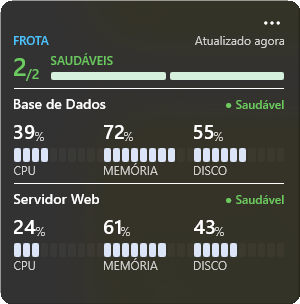
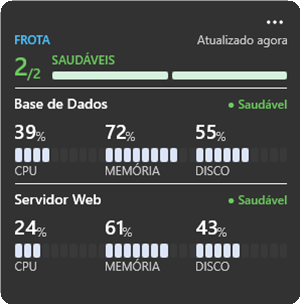
fix: address capacity-fix review findings
Reliability review caught that the shared invariant was circular: it
compared the rendered row count against the same MaxRowsFor the builder
uses to cap, so restoring Medium to three or Large to six would have
moved the expectation with the code and still passed. The measured
capacities are now literals in the test, and the production constant is
asserted to equal them, so changing a cap fails the suite until someone
re-measures on the board.

Visual review caught that the overflow line was rendered subtle. It is
the only thing telling the user that servers exist which the card is not
showing, so de-emphasising it worked against the honesty the cap fix was
meant to restore. It is now normal weight, and a test asserts it.

The overflow copy is now idiomatic per locale rather than one template
with a swapped word: "{0} more", "mais {0}", "{0} a mais". The previous
"+{0} mais" read as "mais N mais" in Portuguese.

Small no longer carries an overflow count and text that its composition
never draws; it renders no rows, so its overflow is zero and its honesty
comes from the hero stating the whole fleet. That is now its own test.

The widget picker screenshots are recaptured from the board against a
neutral solid background, with no pointer over the card, so the asset
shows the product rather than the author's desktop tint. Light and dark
variants are declared separately, because the picker follows the system
[…]

diff --git a/tests/ServerMonitor.WidgetProvider.Tests/Rendering/WidgetViewModelBuilderTests.cs b/tests/ServerMonitor.WidgetProvider.Tests/Rendering/WidgetViewModelBuilderTests.cs
@@ -135,8 +135,9 @@ public sealed class WidgetViewModelBuilderTests
         Assert.Equal(name, Assert.Single(vm.Rows).DisplayName);
     }
 
+    // Small is deliberately absent: it renders no rows and therefore carries no overflow at all - see
+    // Small_states_the_whole_fleet_and_carries_no_overflow for its own contract (Prism L3).
     [Theory]
-    [InlineData(WidgetSizeHint.Small, 0)]
     [InlineData(WidgetSizeHint.Medium, 2)]
     [InlineData(WidgetSizeHint.Large, 3)]
     public void Rows_are_capped_per_size_with_overflow(WidgetSizeHint size, int maxRows)
@@ -244,14 +245,30 @@ public sealed class WidgetViewModelBuilderTests
 
     // ---- The shared invariant. This is the guard that stops QA-4/QA-5 recurring per size. ----
     //
-    // For every size that renders server rows, a fleet larger than what is shown MUST be announced. The
-    // two shipped defects were independent instances of exactly this rule being broken, so it is asserted
-    // once, across every size and a wide range of fleet sizes, rather than per size.
-    [Theory]
-    [InlineData(WidgetSizeHint.Medium)]
-    [InlineData(WidgetSizeHint.Large)]
-    public void Sizes_that_render_rows_never_hide_a_server_silently(WidgetSizeHint size)
+    // MEASURED capacities, deliberately written out as literals rather than read from MaxRowsFor. Asserting
+    // against the production constant would be circular: raising Medium back to 3 or Large back to 6 would
+    // move the expectation with the code and the test would still pass, which is exactly how both defects
+    // shipped with a green suite in the first place (Atlas M1). These numbers came from the real Windows
+    // Widgets board and may only be changed by re-measuring there.
+    public const int MeasuredMediumCapacity = 2;
+    public const int MeasuredLargeCapacity = 3;
+
+    public static TheoryData<WidgetSizeHint, int> RowRenderingSizes() => new()
     {
+        { WidgetSizeHint.Medium, MeasuredMediumCapacity },
+        { WidgetSizeHint.Large, MeasuredLargeCapacity },
+    };
+
+    // For every size that renders server rows, a fleet larger than what is shown MUST be announced. The two
+    // shipped defects were independent instances of this one rule being broken, so it is asserted once,
+    // across both sizes and a wide range of fleet sizes, rather than per size.
+    [Theory]
+    [MemberData(nameof(RowRenderingSizes))]
+    public void Sizes_that_render_rows_never_hide_a_server_silently(WidgetSizeHint size, int measuredCapacity)
+    {
+        // The production constant must equal what was measured on the host - not the other way round.
+        Assert.Equal(measuredCapacity, WidgetViewModelBuilder.MaxRowsFor(size));
+
         foreach (var total in new[] { 0, 1, 2, 3, 4, 5, 6, 7, 12, 100 })
         {
             var servers = Enumerable.Range(0, total)
@@ -260,9 +277,10 @@ public sealed class WidgetViewModelBuilderTests
 
             // Nothing is ever unaccounted for.
             Assert.Equal(total, vm.Rows.Count + vm.OverflowCount);
-            // Never render more than the measured host capacity.
-            Assert.True(vm.Rows.Count <= WidgetViewModelBuilder.MaxRowsFor(size),
-                $"{size} rendered {vm.Rows.Count} rows, above its host capacity");
+            // Never render more than the capacity measured on the real board.
+            Assert.True(vm.Rows.Count <= measuredCapacity,
+                $"{size} rendered {vm.Rows.Count} rows, above its measured host capacity of {measuredCapacity}");
+            Assert.Equal(Math.Min(total, measuredCapacity), vm.Rows.Count);
             // And the headline invariant: hidden servers are always announced.
             if (total > vm.Rows.Count)
             {
@@ -274,6 +292,25 @@ public sealed class WidgetViewModelBuilderTests
                 Assert.Empty(vm.OverflowText);
             }
         }
+    }
+
+    // Small is exempt from the overflow rule, and this pins WHY: it renders no rows, so it never implies a
+    // list, and its hero states the whole fleet. It must not carry a phantom overflow it never draws.
+    [Theory]
+    [InlineData(1)]
+    [InlineData(5)]
+    [InlineData(100)]
+    public void Small_states_the_whole_fleet_and_carries_no_overflow(int total)
+    {
+        var servers = Enumerable.Range(0, total).Select(i => Server($"s{i:D3}", WidgetHealth.Healthy)).ToArray();
+        var vm = Build(Read(Now, servers), WidgetSizeHint.Small);
+
+        Assert.Empty(vm.Rows);
+        Assert.Equal(0, vm.OverflowCount);
+        Assert.Empty(vm.OverflowText);
+        // The honesty comes from the hero: it names the full fleet size.
+        Assert.Equal(total, vm.TotalServers);
+        Assert.Equal($"{total}/{total}", vm.HeroValue);
     }
 
     [Fact]
@@ -302,8 +339,16 @@ public sealed class WidgetViewModelBuilderTests
             Assert.Equal(3, vm.OverflowCount);
             // Localized, and never a bare number: the user must be able to read it as "more servers".
             Assert.Contains("3", vm.OverflowText);
+            Assert.NotEqual("3", vm.OverflowText);
             Assert.NotEqual("+3", vm.OverflowText);
             Assert.DoesNotContain("{0}", vm.OverflowText, StringComparison.Ordinal);
+            // Each locale gets its own idiomatic phrasing, not a shared template with a swapped word.
+            Assert.Contains(culture switch
+            {
+                "pt-BR" => "mais 3",
+                "pt-PT" => "3 a mais",
+                _ => "3 more"
+            }, vm.OverflowText, StringComparison.Ordinal);
         }
     }
 

diff --git a/tests/ServerMonitor.WidgetProvider.Tests/Rendering/WidgetCardRendererTests.cs b/tests/ServerMonitor.WidgetProvider.Tests/Rendering/WidgetCardRendererTests.cs
@@ -120,7 +120,7 @@ public sealed class WidgetCardRendererTests
     private static IEnumerable<JsonElement> BodyItems(JsonElement root) =>
         root.GetProperty("body").EnumerateArray();
 
-    // Every TextBlock "text" value in the card, JSON-decoded (the serializer escapes "+" as +).
+    // Every TextBlock "text" value in the card, JSON-decoded.
     private static IEnumerable<string> AllTexts(JsonElement element)
     {
         if (element.ValueKind == JsonValueKind.Object)
@@ -160,9 +160,8 @@ public sealed class WidgetCardRendererTests
 
         Assert.Equal(expectedBlocks, ServerBlocks(root).Count);
 
-        // Assert on PARSED text, never the raw JSON: the serializer escapes "+" as +.
         var texts = AllTexts(root).ToList();
-        var overflowText = $"+{expectedOverflow} more";
+        var overflowText = $"{expectedOverflow} more";
         if (expectedOverflow == 0)
         {
             Assert.DoesNotContain(texts, t => t.EndsWith(" more", StringComparison.Ordinal));
@@ -181,16 +180,20 @@ public sealed class WidgetCardRendererTests
     [Fact]
     public void Medium_never_serializes_a_server_beyond_the_cap()
     {
+        // Fixed ids so the assertion can actually check that the capped server's opaque id is absent too,
+        // not just its name (Vigil L-1: the comment used to promise more than the assertion delivered).
+        var hidden = Guid.Parse("11111111-2222-3333-4444-555555555555");
         var json = Render(Read(
             Server("alpha", WidgetHealth.Healthy),
             Server("bravo", WidgetHealth.Healthy),
-            Server("charlie", WidgetHealth.Healthy)), WidgetSizeHint.Medium).TemplateJson;
+            Server("charlie", WidgetHealth.Healthy, hidden)), WidgetSizeHint.Medium).TemplateJson;
 
         AssertValidCard(json);
         Assert.Contains("alpha", json, StringComparison.Ordinal);
         Assert.Contains("bravo", json, StringComparison.Ordinal);
         // The third server is not rendered at all - not its name, and not its opaque id.
         Assert.DoesNotContain("charlie", json, StringComparison.Ordinal);
+        Assert.DoesNotContain(hidden.ToString("D"), json, StringComparison.OrdinalIgnoreCase);
     }
 
     [Theory]
@@ -228,17 +231,23 @@ public sealed class WidgetCardRendererTests
         }
     }
 
-    [Fact]
-    public void Medium_overflow_line_is_not_clickable_and_carries_no_server_action()
+    [Theory]
+    [InlineData(WidgetSizeHint.Medium)]
+    [InlineData(WidgetSizeHint.Large)]
+    public void Overflow_line_is_not_clickable_and_carries_no_server_action(WidgetSizeHint size)
     {
-        var servers = Enumerable.Range(0, 5).Select(i => Server($"srv{i}", WidgetHealth.Healthy)).ToArray();
-        var root = AssertValidCard(Render(Read(servers), WidgetSizeHint.Medium).TemplateJson);
+        var servers = Enumerable.Range(0, 12).Select(i => Server($"srv{i:D2}", WidgetHealth.Healthy)).ToArray();
+        var root = AssertValidCard(Render(Read(servers), size).TemplateJson);
 
-        var last = BodyItems(root).Last();
-        Assert.Equal("TextBlock", last.GetProperty("type").GetString());
+        var overflow = BodyItems(root).Single(e =>
+            e.TryGetProperty("type", out var t) && t.GetString() == "TextBlock"
+            && e.TryGetProperty("text", out var x) && (x.GetString() ?? string.Empty).EndsWith(" more", StringComparison.Ordinal));
+
         // No per-element action: the overflow line falls through to the card's openDashboard, and can
         // never carry an openServer verb for a server it does not identify.
-        Assert.False(last.TryGetProperty("selectAction", out _));
+        Assert.False(overflow.TryGetProperty("selectAction", out _));
+        // And it must be legible, not de-emphasised - it is the only signal that servers are hidden.
+        Assert.False(overflow.TryGetProperty("isSubtle", out var subtle) && subtle.GetBoolean());
     }
 
     // M13-QA-5: Large holds three blocks plus the fleet-summary footer. The footer is NOT sacrificed to
@@ -267,7 +276,7 @@ public sealed class WidgetCardRendererTests
         }
         else
         {
-            Assert.Contains($"+{expectedOverflow} more", texts);
+            Assert.Contains($"{expectedOverflow} more", texts);
         }
 
         // The fleet-summary footer survives in every case: its four labels are always present.
@@ -301,7 +310,7 @@ public sealed class WidgetCardRendererTests
 
         var overflow = BodyItems(root).Single(e =>
             e.TryGetProperty("type", out var t) && t.GetString() == "TextBlock"
-            && e.TryGetProperty("text", out var x) && x.GetString() == "+6 more");
+            && e.TryGetProperty("text", out var x) && x.GetString() == "6 more");
         Assert.False(overflow.TryGetProperty("selectAction", out _));
     }
 

diff --git a/src/ServerMonitor.WidgetProvider/Rendering/WidgetStrings.cs b/src/ServerMonitor.WidgetProvider/Rendering/WidgetStrings.cs
@@ -36,7 +36,7 @@ public sealed class WidgetStrings
     public required string HealthyCountLabelOne { get; init; }
     public required string UnknownCountLabel { get; init; }   // plural: "{0} unknown"
     public required string UnknownCountLabelOne { get; init; }
-    public required string MoreCount { get; init; }           // "+{0} more"
+    public required string MoreCount { get; init; }           // "{0} more" / "mais {0}"
 
     /// <summary>Picks the singular or plural form for a count.</summary>
     public static string Plural(int count, string one, string many) =>
@@ -107,7 +107,7 @@ public sealed class WidgetStrings
         HealthyCountLabelOne = "{0} healthy",
         UnknownCountLabel = "{0} unknown",
         UnknownCountLabelOne = "{0} unknown",
-        MoreCount = "+{0} more",
+        MoreCount = "{0} more",
         UpdatedJustNow = "Updated just now",
         UpdatedMinutesAgo = "Updated {0} min ago",
         UpdatedHoursAgo = "Updated {0} hr ago",
@@ -138,7 +138,7 @@ public sealed class WidgetStrings
         HealthyCountLabelOne = "{0} saudável",
         UnknownCountLabel = "{0} desconhecidos",
         UnknownCountLabelOne = "{0} desconhecido",
-        MoreCount = "+{0} mais",
+        MoreCount = "mais {0}",
         UpdatedJustNow = "Atualizado agora",
         UpdatedMinutesAgo = "Atualizado há {0} min",
         UpdatedHoursAgo = "Atualizado há {0} h",
@@ -169,7 +169,7 @@ public sealed class WidgetStrings
         HealthyCountLabelOne = "{0} saudável",
         UnknownCountLabel = "{0} desconhecidos",
         UnknownCountLabelOne = "{0} desconhecido",
-        MoreCount = "+{0} mais",
+        MoreCount = "{0} a mais",
         UpdatedJustNow = "Atualizado agora",
         UpdatedMinutesAgo = "Atualizado há {0} min",
         UpdatedHoursAgo = "Atualizado há {0} h",

diff --git a/src/ServerMonitor.WidgetProvider/Rendering/WidgetViewModelBuilder.cs b/src/ServerMonitor.WidgetProvider/Rendering/WidgetViewModelBuilder.cs
@@ -69,11 +69,15 @@ public static class WidgetViewModelBuilder
         var ordered = WidgetOrdering.ForDisplay(snapshot.Servers);
         var maxRows = MaxRowsFor(size);
         var shown = ordered.Take(maxRows).Select(s => ToRow(s, strings)).ToArray();
-        // TRUTHFUL DEGRADATION INVARIANT (M13-QA-4 / QA-5): visible + overflow == total, always, and any
-        // size that renders rows must announce every server it does not render. A server can never vanish
-        // from the card without the user being told. Small is exempt by construction: it renders no rows at
-        // all and is honest about being a fleet verdict (N/N + gauge), so it hides nothing it implied.
-        var overflow = Math.Max(0, snapshot.Servers.Count - maxRows);
+        // TRUTHFUL DEGRADATION INVARIANT (M13-QA-4 / QA-5): for a size that renders rows, visible + overflow
+        // == total, and every server not rendered is announced. A server can never vanish from the card
+        // without the user being told.
+        //
+        // Small is exempt by construction rather than by omission: it renders no rows at all, so it never
+        // implies a list, and its hero already states the full fleet as "healthy/total" with one gauge tick
+        // per server. Its overflow is therefore zero, not "everything" - carrying a phantom "+N" that
+        // SmallBody never draws would be a trap for the next person to touch it (Prism L3).
+        var overflow = maxRows == 0 ? 0 : Math.Max(0, snapshot.Servers.Count - maxRows);
 
         return new WidgetViewModel
         {

diff --git a/src/ServerMonitor.WidgetProvider/Rendering/WidgetCardRenderer.cs b/src/ServerMonitor.WidgetProvider/Rendering/WidgetCardRenderer.cs
@@ -117,7 +117,10 @@ public static class WidgetCardRenderer
 
         if (vm.OverflowText.Length > 0)
         {
-            body.Add(Text(vm.OverflowText, size: "Small", weight: "Bolder", subtle: true, spacingNone: true));
+            // NOT subtle (Prism M1): this line is the only thing telling the user that servers exist which
+            // the card is not showing. De-emphasising the one affordance that carries that fact works
+            // against the very honesty the cap fix restored.
+            body.Add(Text(vm.OverflowText, size: "Small", weight: "Bolder", spacingNone: true));
         }
 
         // Large fills the bottom band with a non-interactive fleet-summary footer (Fable).
